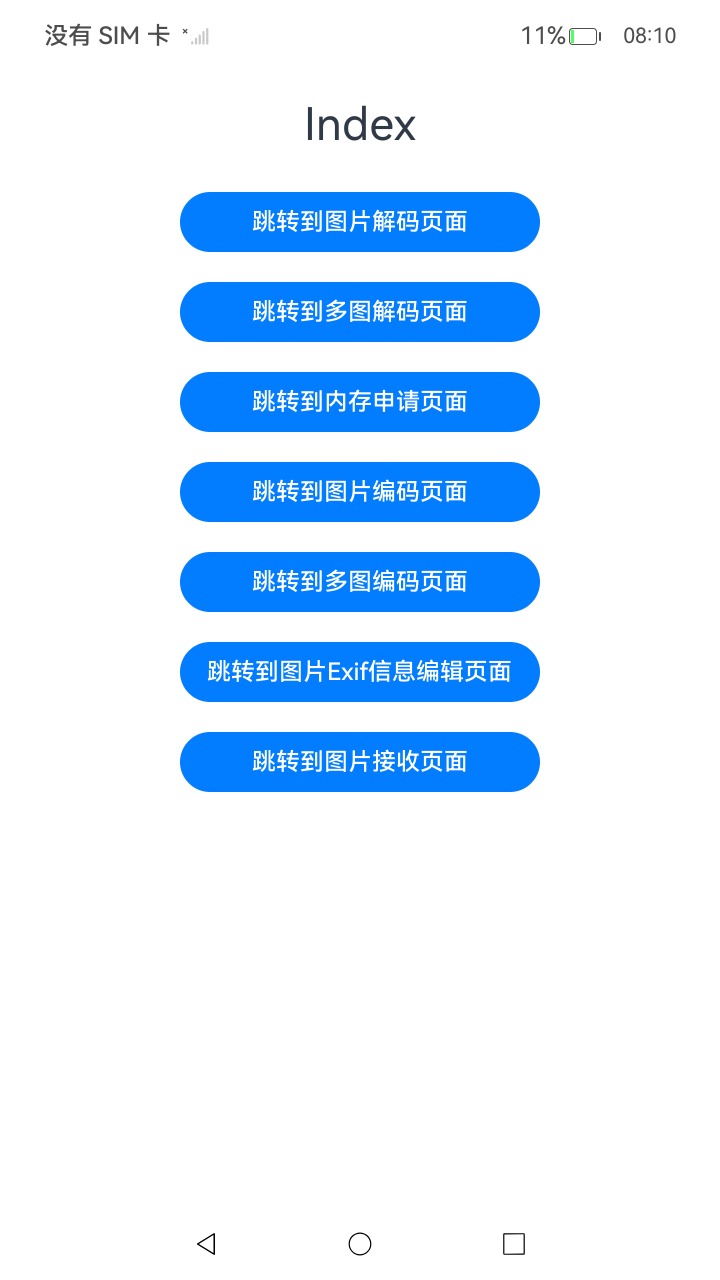
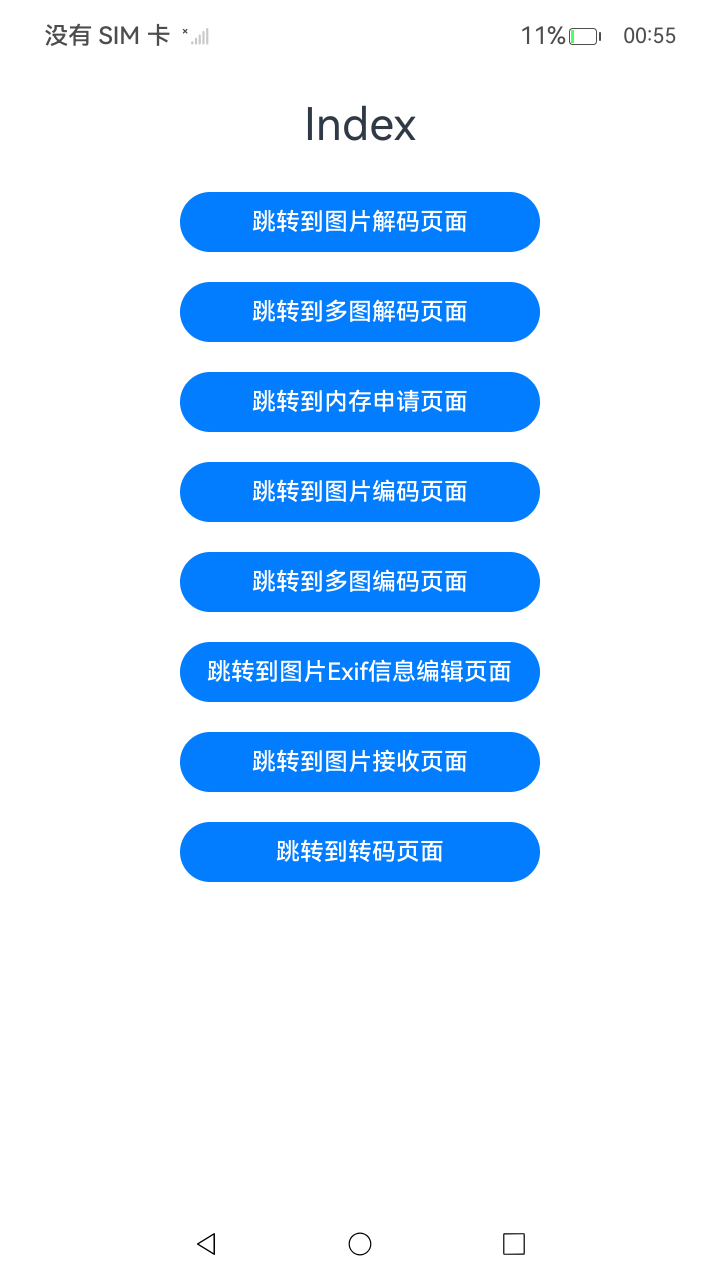
add transcoding

Changed region(s): [[0.2444, 0.625, 0.7639, 0.6875], [0.8861, 0.0, 0.9472, 0.0312]]

diff --git a/code/DocsSample/Media/Image/ImageNativeSample/entry/src/main/cpp/loadAllocator.cpp b/code/DocsSample/Media/Image/ImageNativeSample/entry/src/main/cpp/loadAllocator.cpp
@@ -18,11 +18,11 @@
 #include <multimedia/image_framework/image/image_common.h>
 #include <multimedia/image_framework/image/pixelmap_native.h>
 #include <multimedia/image_framework/image/image_source_native.h>
-// [StartExclude allocator_operations_import]
+// [StartExclude allocator_operations]
 #include <imageKits.h>
-// [EndExclude allocator_operations_import]
+// [EndExclude allocator_operations]
 
-// 根据像素格式返回每像素的字节数
+// 根据像素格式返回每像素的字节数。
 int32_t GetPixelFormatBytes(int32_t pixelFormat)
 {
     switch (pixelFormat) {
@@ -117,7 +117,7 @@ void DataCopy(OH_PixelmapNative *pixelmap, OH_ImageSourceNative* imageSource, OH
     OH_PixelmapNative_UnaccessPixels(newPixelmap);
     OH_PixelmapNative_UnaccessPixels(pixelmap);
     OH_DecodingOptions_Release(options);
-    options =nullptr;
+    options = nullptr;
     OH_ImageSourceNative_Release(imageSource);
     imageSource = nullptr;
     OH_PixelmapNative_Release(pixelmap);

diff --git a/code/DocsSample/Media/Image/ImageNativeSample/entry/src/main/cpp/loadReceiver.cpp b/code/DocsSample/Media/Image/ImageNativeSample/entry/src/main/cpp/loadReceiver.cpp
@@ -151,9 +151,7 @@ static void OnCallback(OH_ImageReceiverNative* receiver)
                      "errCode: %{public}d.", errCode);
         OH_ImageNative_Release(image);
         return;
-    }
-
-    {
+    } else {
         std::lock_guard<std::mutex> lock(g_mutex);
         g_imageInfoResult = image;
         g_imageReady = true;
@@ -410,7 +408,7 @@ static napi_value TakePhoto(napi_env env, napi_callback_info info)
     Camera_ErrorCode photoRet = StartTakePhoto(surfaceId_c.get());
     return GetJsResultDemo(env, photoRet);
 }
-// [Start load_cameraSession]
+// [End load_cameraSession]
 
 // 获取接收到的图像信息。
 // [Start wait_callBack]
@@ -432,7 +430,7 @@ static OH_ImageNative* NotifyJsImageInfoSync()
     }
     return g_imageInfoResult;
 }
-// [Start wait_callBack]
+// [End wait_callBack]
 
 // [Start get_imageSize]
 // 获取图片大小。

diff --git a/code/DocsSample/Media/Image/ImageArkTSSample/README.md b/code/DocsSample/Media/Image/ImageArkTSSample/README.md
@@ -2,7 +2,7 @@
 
 ### 介绍
 
-此Sample为开发指南中图片**开发指导(ArkTS)**章节中部分示例代码的工程。包含图片编解码，图片接收，内存分配，以及图片Exif信息的相关操作。
+此Sample为开发指南中图片**开发指导(ArkTS)**章节中部分示例代码的工程。包含图片编解码，图片接收，内存分配，图片转码以及图片Exif信息的相关操作。
 
 ### 效果预览
 
@@ -26,9 +26,12 @@
 
 7.从菜单页面，点击“跳转到图片Exif信息编辑页面”按钮，进入Exif信息编辑页面，首先选择propertyKey的值，然后获取其Exif信息。在操作结束后点击“资源释放”按钮进行资源的释放。
 
-8.从菜单页面，点击“跳转到图片Exif信息编辑页面”按钮，进入Exif信息编辑页面，首先选择propertyKey的值，然后输入要修改value值，点击"修改Exif信息"按钮修改Exif信息。在操作结束后点击“资源释放”按钮进行资源的释放。
+8.从菜单页面，点击“跳转到图片Exif信息编辑页面”按钮，进入Exif信息编辑页面，首先选择propertyKey的值，然后输入要修改value值，
+点击“修改Exif信息”按钮修改Exif信息。在操作结束后点击“资源释放”按钮进行资源的释放。
 
-9.从菜单页面，点击“跳转到图片接收页面”按钮，进入图片接收页面，可获取到新创建的Receiver的surfaceID,点击“触发相机"按钮，可触发"imageArrival"回调函数。
+9.从菜单页面，点击“跳转到图片接收页面”按钮，进入图片接收页面，可获取到新创建的Receiver的surfaceID，点击“触发相机”按钮，可触发“imageArrival”回调函数。
+
+10.从菜单页面，点击“跳转到转码页面”按钮，进入转码页面，点击“触发相机”按钮，可将将HEIF图片转码成JPEG图片。
 
 ### 工程目录
 
@@ -48,19 +51,21 @@
 │       │   │   ├── entrybackupability
 │       │   │   │   └── entrybackupability.ts
 │       │   │   ├── pages
-│       │   │   │   └── Index.ets  // 菜单页面
-│       │   │   │   └── AllocateMemory.ets // 内存分配页面
-│       │   │   │   └── DecodingPicture.ets // 多图解码页面
-│       │   │   │   └── DecodingPixelMap.ets // 图片解码页面
-│       │   │   │   └── EditExif.ets // Exif信息编辑页面
-│       │   │   │   └── EncodingPicture.ets // 多图解码页面
-│       │   │   │   └── EncodingPixelMap.ets // 图片编码页面
-│       │   │   │   └── ImageReceiver.ets // receiver调用页面
+│       │   │   │   └── Index.ets  // 菜单页面。
+│       │   │   │   └── AllocateMemory.ets // 内存分配页面。
+│       │   │   │   └── DecodingPicture.ets // 多图解码页面。
+│       │   │   │   └── DecodingPixelMap.ets // 图片解码页面。
+│       │   │   │   └── EditExif.ets // Exif信息编辑页面。
+│       │   │   │   └── EncodingPicture.ets // 多图解码页面。
+│       │   │   │   └── EncodingPixelMap.ets // 图片编码页面。
+│       │   │   │   └── ImageReceiver.ets // receiver调用页面。
+│       │   │   │   └── Transcoding.ets // 转码调用页面。
 │       │   │   └── tools
-│       │   │       ├── CodecUtility.ets // 编解码相关接口
-│       │   │       ├── components.ets    // 资源选择映射函数
-│       │   │       └── ExifUtility.ets    // Exif相关接口
-│       │   │       └── ReceiverUtility.ets    // receiver相关接口
+│       │   │       ├── CodecUtility.ets // 编解码相关接口。
+│       │   │       ├── components.ets    // 资源选择映射函数。
+│       │   │       └── ExifUtility.ets    // Exif相关接口。
+│       │   │       └── ReceiverUtility.ets    // receiver相关接口。
+│       │   │       └── TranscodingUtility.ets    // 转码相关接口。
 │       │   ├── module.json5
 │       │   └── resources
 │       │       ├── base
@@ -70,10 +75,12 @@
 │       │    ├── ets
 │       │    │   ├── test
 │       │    │   │   ├── Ability.test.ets
-│       │    │   │   └── Codec.test.ets
+│       │    │   │   ├── Allocator.test.ets
+│       │    │   │   ├── Codec.test.ets
 │       │    │   │   ├── Exif.test.ets
-│       │    │   │   └── List.test.ets
+│       │    │   │   ├── List.test.ets
 │       │    │   │   ├── Receiver.test.ets
+│       │    │   │   └── Transcoding.test.ets
 │       │    ├── module.json5
 │       └── test
 │           ├── List.test.ets
@@ -90,6 +97,7 @@
 + 图片编解码，多图编解码，内存申请等功能的接口调用均封装在CodecUtility中实现，源码参考[CodecUtility.ets](./entry/src/main/ets/tools/CodecUtility.ets)。 
 + Exif信息获取与修改功能的接口调用封装在ExifUtility中实现，源码参考[ExifUtility.ets](./entry/src/main/ets/tools/ExifUtility.ets)。
 + 图片接收功能的接口调用封装在ReceiverUtility中实现，源码参考[ReceiverUtility.ets](./entry/src/main/ets/tools/ReceiverUtility.ets)。
++ 图片转码功能的接口调用封装在TranscodingUtility中实现，源码参考[TranscodingUtility.ets](./entry/src/main/ets/tools/TranscodingUtility.ets)。
 
 ### 相关权限
 
@@ -101,13 +109,13 @@
 
 ### 约束与限制
 
-1.  本示例支持标准系统上运行，支持设备：RK3568；
+1.本示例支持标准系统上运行，支持设备：RK3568；
 
-2.  本示例支持API20版本SDK，版本号： 6.0.0.43 ；
+2.本示例支持API20版本SDK，版本号： 6.0.0.43 ；
 
-3.  本示例已支持使Build Version: 6.0.0.43, built on August 24, 2025；
+3.本示例已支持使Build Version: 6.0.0.43, built on August 24, 2025；
 
-4.  高等级APL特殊签名说明：无；
+4.高等级APL特殊签名说明：无；
 
 ### 下载
 
